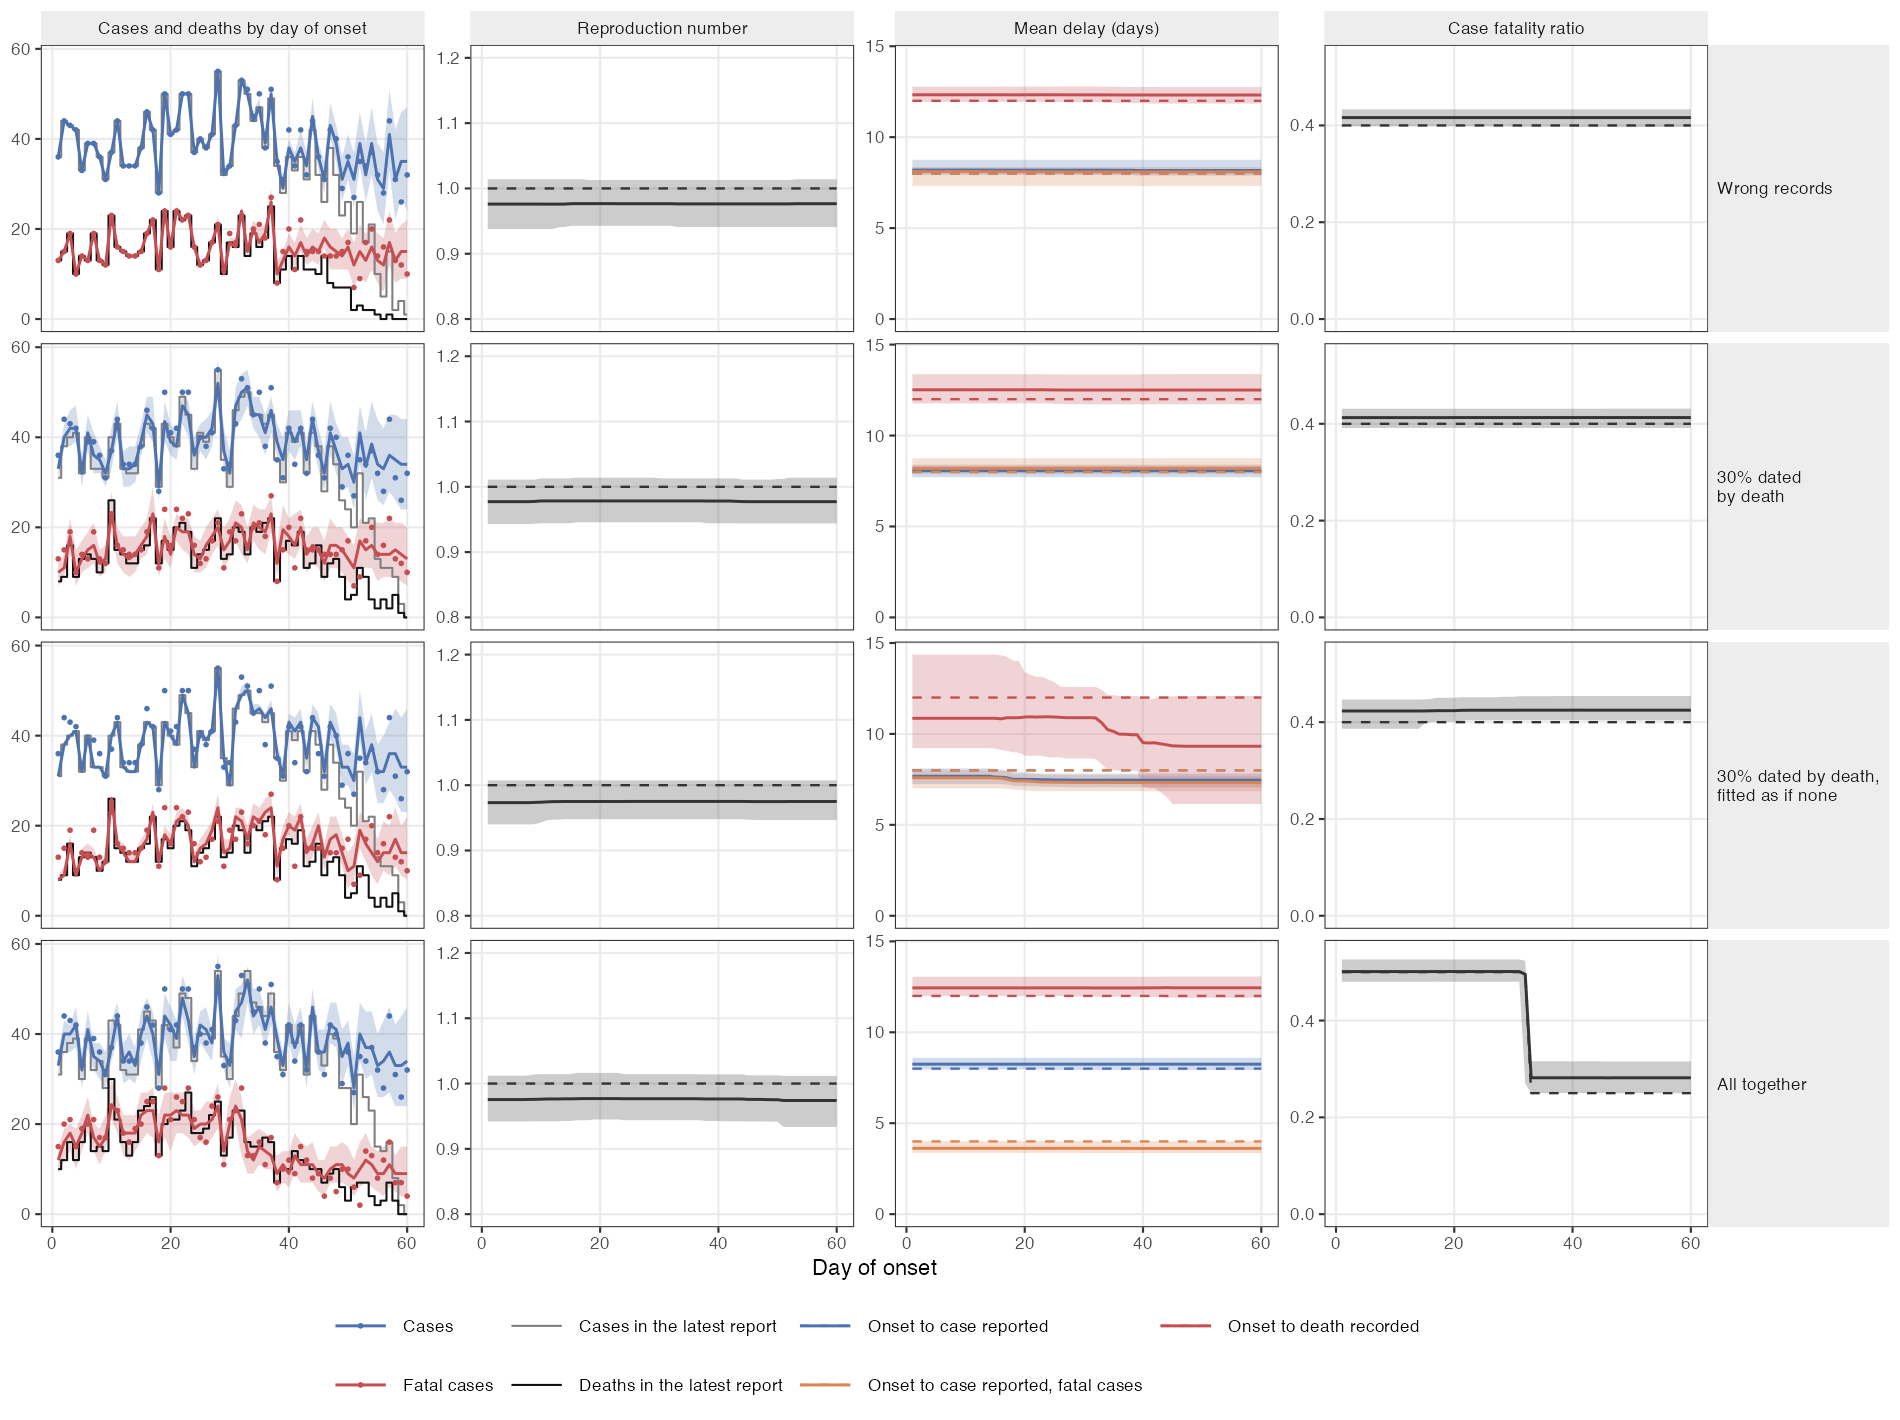
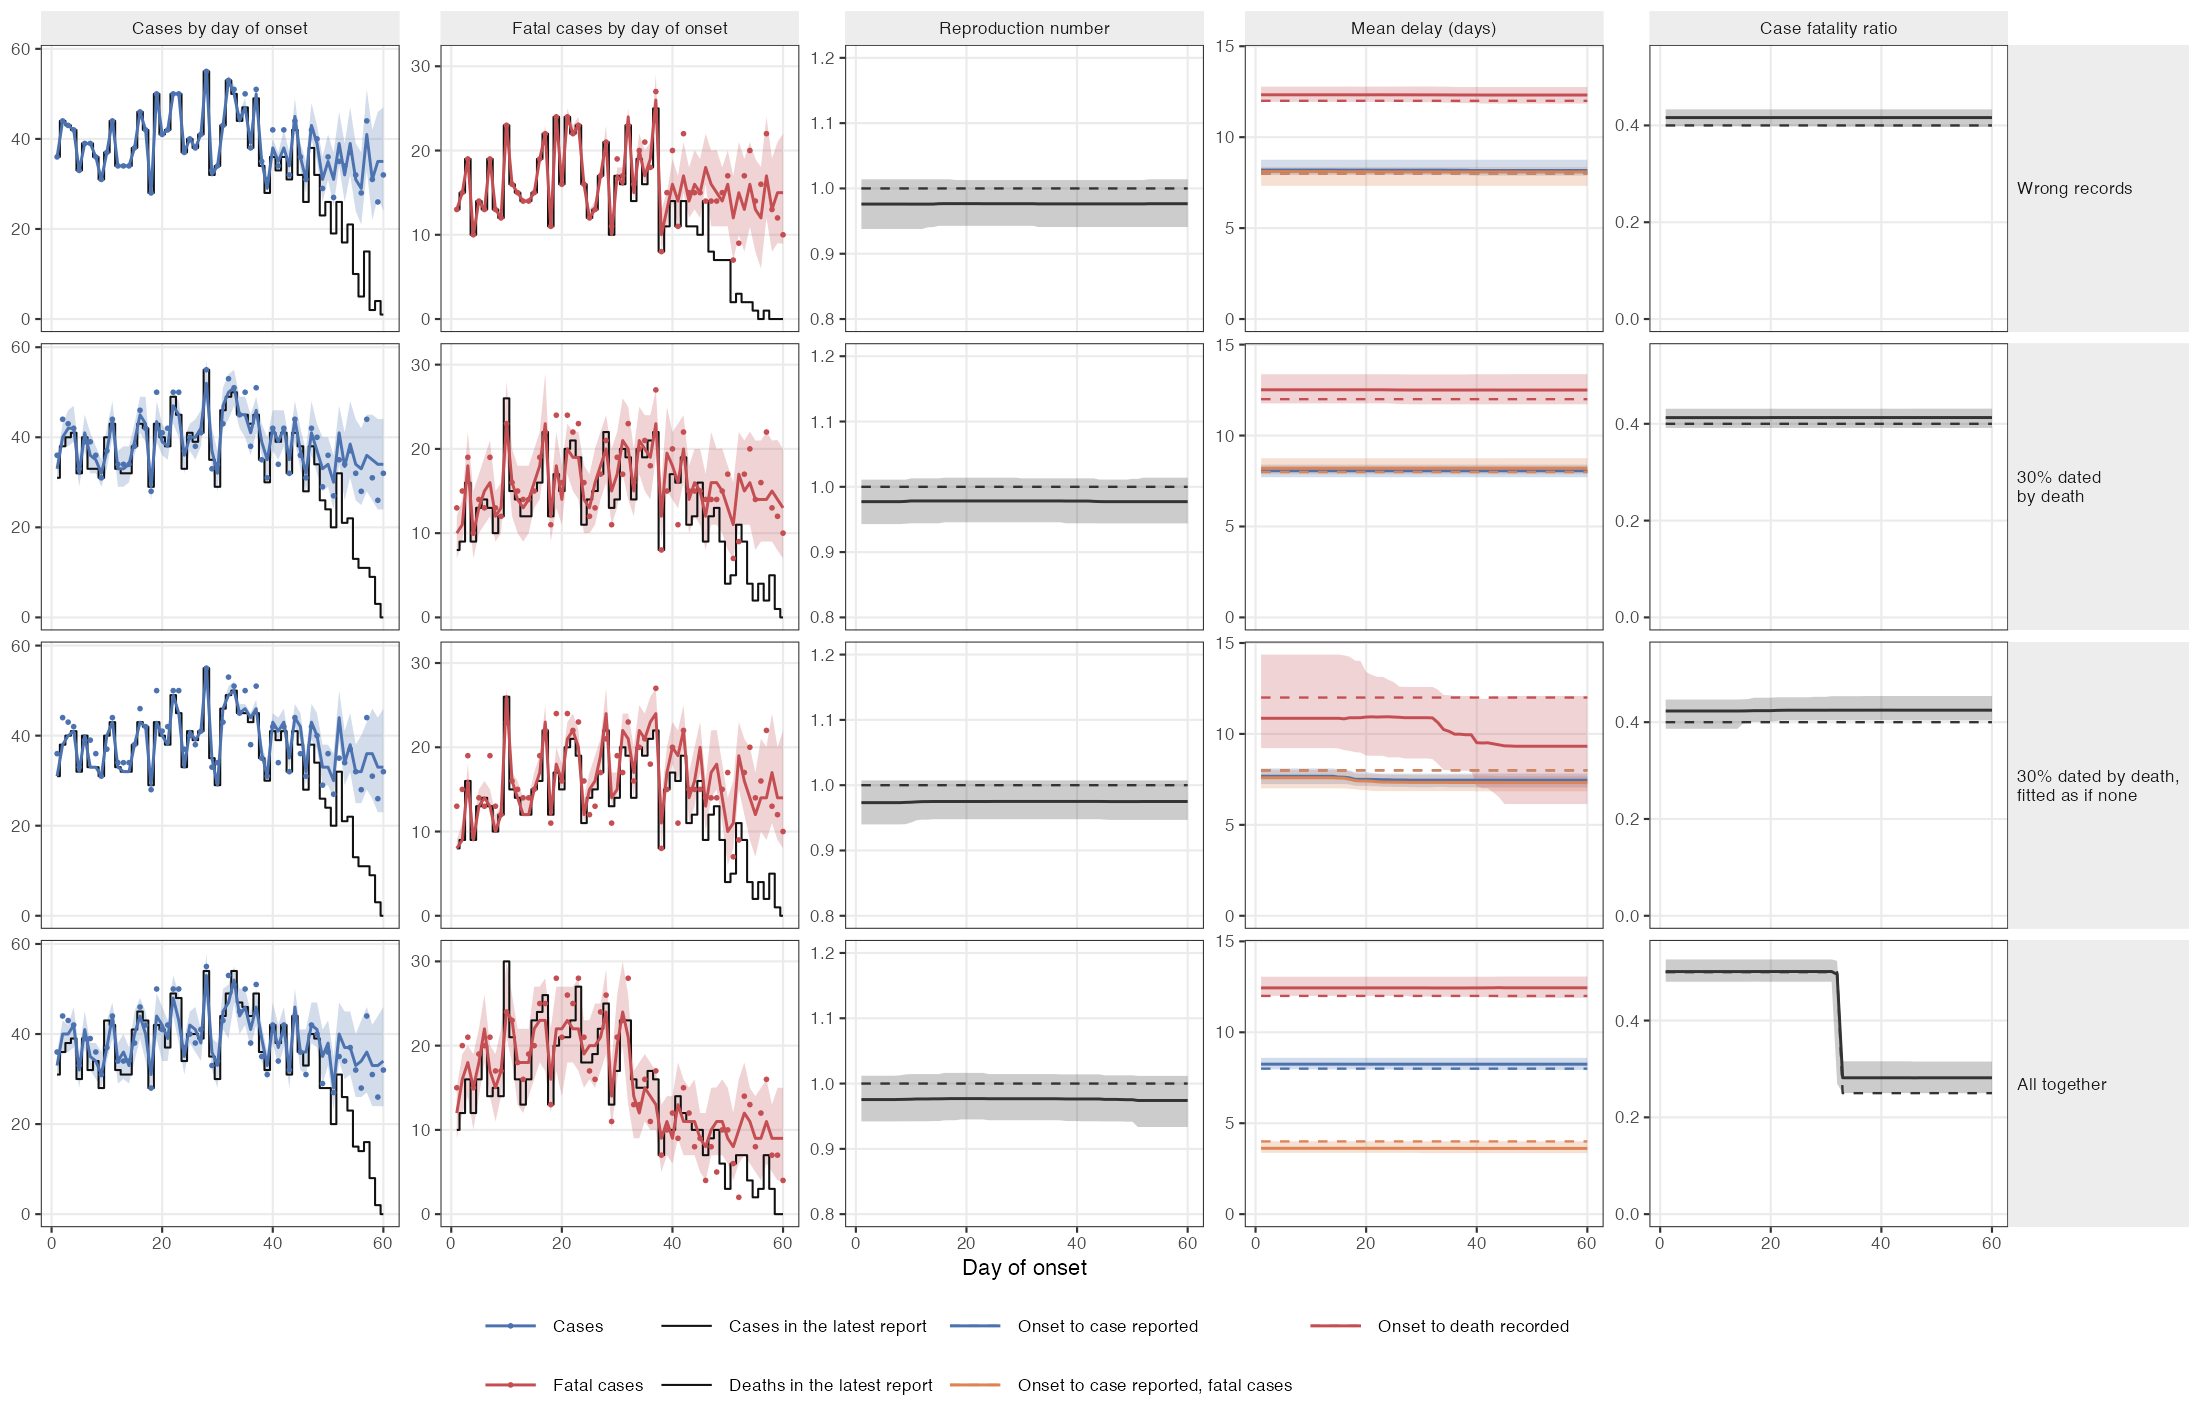
Deaths note: cases and fatal cases in separate columns of the simulation figures

diff --git a/docs/bvd_deaths.tex b/docs/bvd_deaths.tex
@@ -710,10 +710,10 @@ for the others.}
 is one variant of how the same simulated outbreak is reported. Points and
 dashed lines are the truth; solid lines are posterior medians and shaded
 bands 90\% intervals (two chains of 300 iterations, the first 150
-discarded). First column: cases (blue) and fatal cases (red) by true day of
-onset, with the cases (grey steps) and deaths (black steps) in the latest
-report, which are what the model is given for that report. Third column:
-mean delay from onset to a case being reported (blue; orange for fatal
+discarded). First two columns: cases (blue) and fatal cases (red) by true
+day of onset, with the cases and deaths in the latest report (black steps),
+which are what the model is given for that report. Fourth column: mean
+delay from onset to a case being reported (blue; orange for fatal
 cases) and from onset to a death being recorded (red).}
 \label{fig:first}
 \end{figure}
